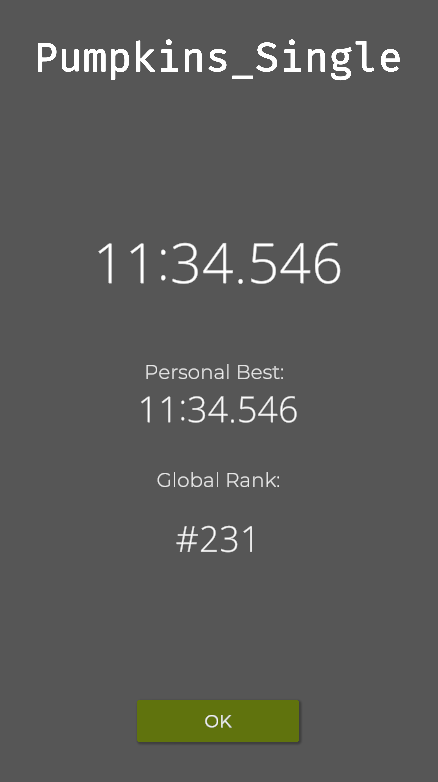
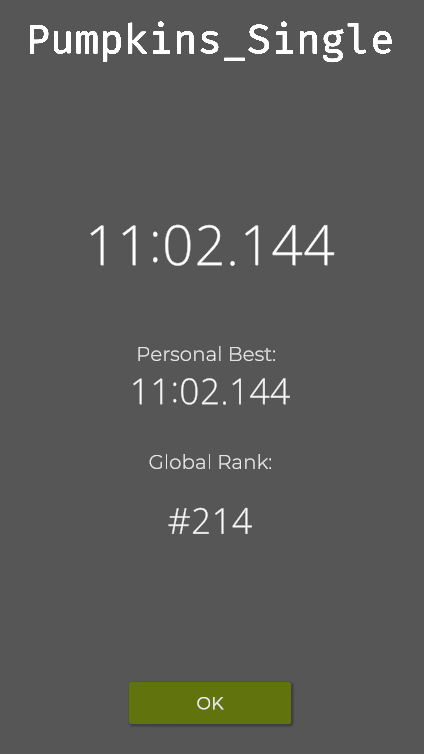
improve pumpkins score

diff --git a/Pumpkin Farming/pumpkin_farm.py b/Pumpkin Farming/pumpkin_farm.py
@@ -29,6 +29,7 @@ def farm_pumpkins():
 
 		if get_entity_type() != Entities.Pumpkin:
 			plant(Entities.Pumpkin)
+			use_item(Items.Water)
 
 
 	def work_column(world_size):

diff --git a/Pumpkin Farming/pumpkin_farm_single.py b/Pumpkin Farming/pumpkin_farm_single.py
@@ -31,6 +31,7 @@ def farm_pumpkins():
 
 		if get_entity_type() != Entities.Pumpkin:
 			plant(Entities.Pumpkin)
+			use_item(Items.Water
 
 	def pumpkin_ready():
 		return get_entity_type() == Entities.Pumpkin and can_harvest()